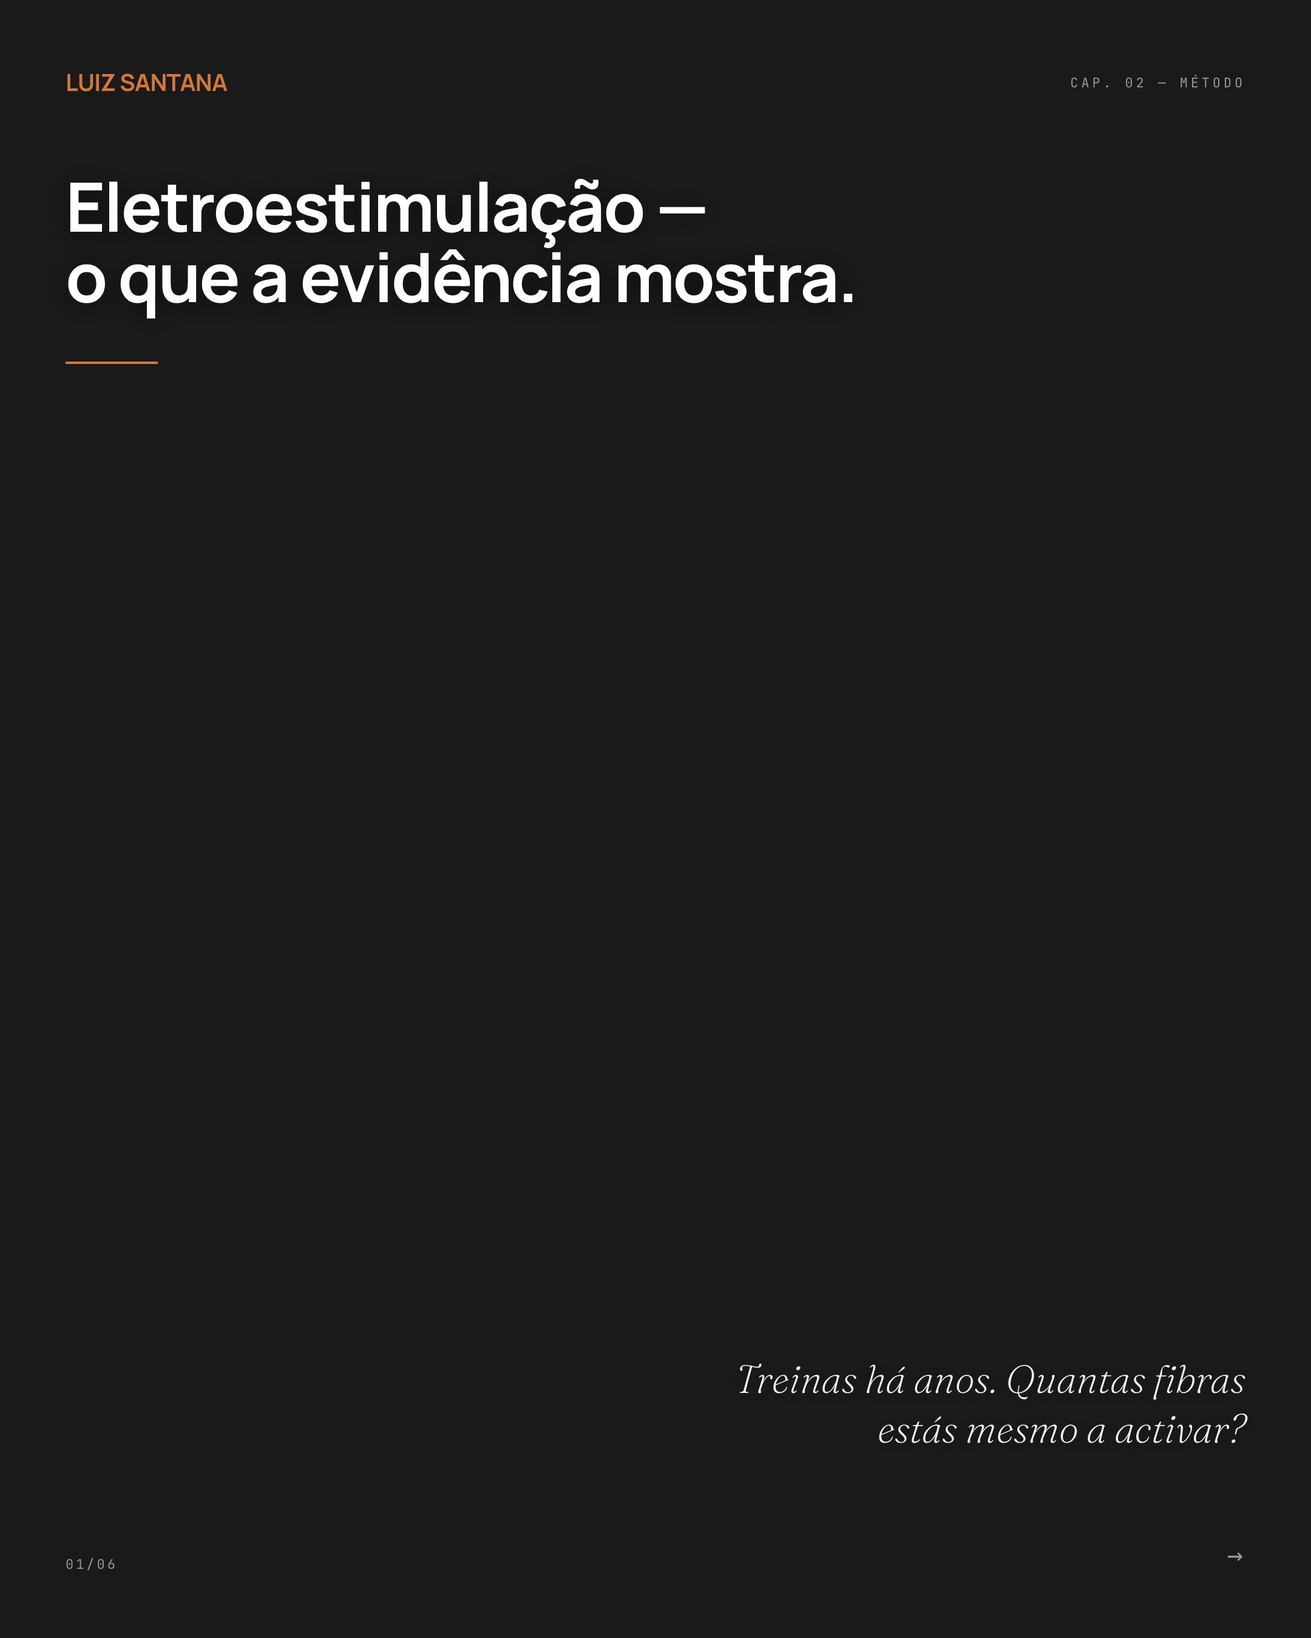
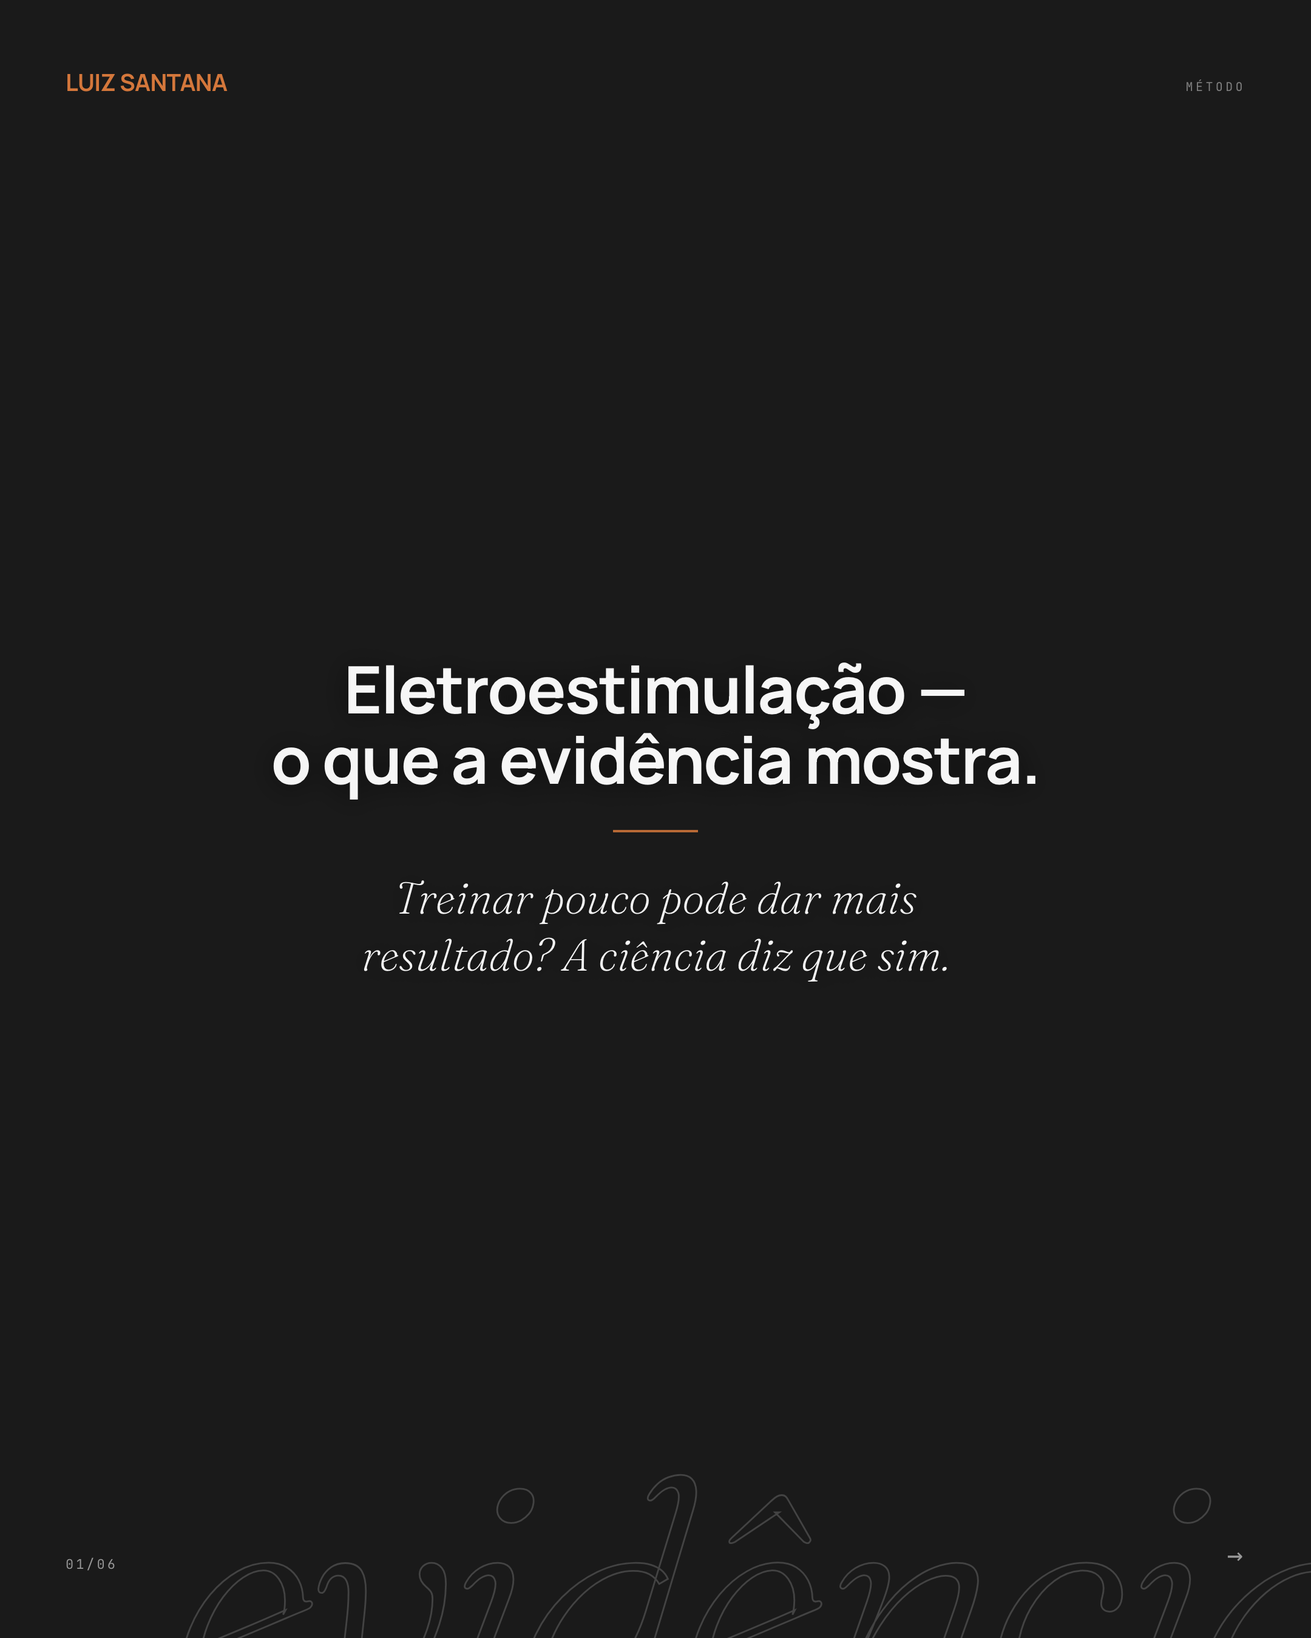
fix(luiz): repor slide-1 CENTRADO nos 4 carrosséis (correção de direção)
O rollback anterior (a6c94ac) foi para a capa alinhada à esquerda, mas o
cliente queria a versão de TEXTO CENTRADO. Reposta a versão centrada (estado
a6c94ac^) nos 4 slides 1. c02/c04 re-renderizados porque o PNG centrado em
git ainda mostrava "Electroestimulação" (a correção de grafia tinha ficado
só no HTML) — agora png+jpg mostram "Eletroestimulação". 0 EMS/Electro.
APP_VERSION 20260527-1245.

diff --git a/public/aprovacao-luiz-202605/brands/luiz_santana/output/2026-05/carrosseis/c04-b2b-ferramenta.html b/public/aprovacao-luiz-202605/brands/luiz_santana/output/2026-05/carrosseis/c04-b2b-ferramenta.html
@@ -142,16 +142,16 @@ h1, h2, h3, p, blockquote, .num {
   text-wrap: pretty;
 }
 
-/* slide-1 editorial cover v3 */
-#slide-1 { padding: clamp(36px, 5vw, 64px) !important; }
-#slide-1 .slide__top { gap: clamp(16px, 3vw, 32px); }
-#slide-1 .cap-index { font-family: var(--font-mono); font-size: 11px; letter-spacing: 0.22em; text-transform: uppercase; color: rgba(255,255,255,0.55); }
-#slide-1 .bg-number { position: absolute; bottom: -10%; right: -6%; font-family: var(--font-serif); font-style: italic; font-weight: 200; font-size: clamp(360px, 58vw, 760px); color: rgba(255,255,255,0.045); line-height: 0.85; letter-spacing: -0.06em; user-select: none; pointer-events: none; z-index: 0; }
-#slide-1.slide--photo .bg-number { display: none; }
-#slide-1 .slide__body { display: grid !important; grid-template-rows: auto auto 1fr auto !important; align-content: stretch !important; gap: clamp(20px, 3.2vh, 40px) !important; position: relative; z-index: 1; padding-top: clamp(20px, 5vh, 60px); padding-bottom: clamp(10px, 3vh, 30px); }
-#slide-1 .slide__body h1 { font-family: var(--font-display) !important; font-weight: 700 !important; font-size: clamp(32px, 5.2vw, 68px) !important; line-height: 1.04 !important; letter-spacing: -0.025em !important; max-width: 19ch !important; justify-self: start; text-wrap: balance; }
-#slide-1 .accent-rule { width: clamp(44px, 7vw, 96px); height: 2px; background: var(--accent); justify-self: start; align-self: start; }
-#slide-1 .slide__hook { font-family: var(--font-serif) !important; font-style: italic; font-weight: 200; font-size: clamp(22px, 3vw, 40px) !important; line-height: 1.25; color: rgba(255,255,255,0.88) !important; max-width: 22ch !important; justify-self: end !important; text-align: right; align-self: end; text-wrap: pretty; }
+/* slide-1 editorial cover v7 */
+#slide-1 { padding: clamp(36px, 5vw, 64px) !important; overflow: hidden; }
+#slide-1 .slide__top { gap: clamp(16px, 3vw, 32px); align-items: baseline; }
+#slide-1 .cap-index { font-family: var(--font-mono); font-size: 10px; letter-spacing: 0.22em; text-transform: uppercase; color: rgba(255,255,255,0.45); }
+#slide-1 .bg-word { position: absolute; bottom: -6vh; right: -3vw; font-family: var(--font-serif); font-style: italic; font-weight: 200; font-size: clamp(170px, 26vw, 320px); color: transparent; -webkit-text-stroke: 1.4px rgba(255,255,255,0.085); letter-spacing: -0.045em; line-height: 0.82; user-select: none; pointer-events: none; z-index: 0; white-space: nowrap; text-transform: lowercase; }
+#slide-1.slide--photo .bg-word { -webkit-text-stroke: 1.4px rgba(255,255,255,0.18); }
+#slide-1 .slide__body { display: grid !important; grid-template-rows: auto auto auto !important; align-content: center !important; justify-items: center !important; gap: clamp(18px, 2.8vh, 30px) !important; position: relative; z-index: 1; padding-top: 0 !important; padding-bottom: 0 !important; }
+#slide-1 .slide__body h1 { font-family: var(--font-display) !important; font-weight: 600 !important; font-size: clamp(32px, 5vw, 58px) !important; line-height: 1.08 !important; letter-spacing: -0.02em !important; max-width: 22ch !important; justify-self: center !important; text-align: center; text-wrap: balance; color: rgba(255,255,255,0.96); }
+#slide-1 .accent-rule { width: clamp(40px, 6.5vw, 80px); height: 2px; background: var(--accent); justify-self: center !important; opacity: 0.85; }
+#slide-1 .slide__hook { font-family: var(--font-serif) !important; font-style: italic; font-weight: 300; font-size: clamp(24px, 3.4vw, 38px) !important; line-height: 1.28; color: rgba(255,255,255,0.86) !important; max-width: 24ch !important; justify-self: center !important; text-align: center; text-wrap: pretty; }
 #slide-1.slide--photo .slide__hook { color: rgba(255,255,255,0.96) !important; text-shadow: 0 2px 18px rgba(0,0,0,0.45); }
 #slide-1.slide--photo .slide__body h1 { text-shadow: 0 2px 22px rgba(0,0,0,0.55); }
 /* coerência interiores */
@@ -165,12 +165,12 @@ h1, h2, h3, p, blockquote, .num {
 
 <article class="slide slide--type" id="slide-1">
   
-  <div class="bg-number" aria-hidden="true">04</div>
-  <div class="slide__top"><span class="brand-glyph">Luiz Santana</span><span class="cap-index">Cap. 04 — Negócio</span></div>
+  <div class="bg-word" aria-hidden="true">negócio</div>
+  <div class="slide__top"><span class="brand-glyph">Luiz Santana</span><span class="cap-index">Negócio</span></div>
   <div class="slide__body">
     <h1>Eletroestimulação não é&nbsp;só treino. É&nbsp;linha de&nbsp;negócio.</h1>
     <div class="accent-rule"></div>
-    <p class="slide__hook">Tens um espaço parado — ou&nbsp;uma linha de&nbsp;receita por abrir?</p>
+    <p class="slide__hook">Treinar menos, ganhar mais — e&nbsp;os teus clientes agradecem.</p>
   </div>
   <div class="slide__bottom"><span>01/06</span><span class="arrow">→</span></div>
 </article>

diff --git a/public/aprovacao-luiz-202605/brands/luiz_santana/output/2026-05/carrosseis/c02-metodo-ciencia.html b/public/aprovacao-luiz-202605/brands/luiz_santana/output/2026-05/carrosseis/c02-metodo-ciencia.html
@@ -142,16 +142,16 @@ h1, h2, h3, p, blockquote, .num {
   text-wrap: pretty;
 }
 
-/* slide-1 editorial cover v3 */
-#slide-1 { padding: clamp(36px, 5vw, 64px) !important; }
-#slide-1 .slide__top { gap: clamp(16px, 3vw, 32px); }
-#slide-1 .cap-index { font-family: var(--font-mono); font-size: 11px; letter-spacing: 0.22em; text-transform: uppercase; color: rgba(255,255,255,0.55); }
-#slide-1 .bg-number { position: absolute; bottom: -10%; right: -6%; font-family: var(--font-serif); font-style: italic; font-weight: 200; font-size: clamp(360px, 58vw, 760px); color: rgba(255,255,255,0.045); line-height: 0.85; letter-spacing: -0.06em; user-select: none; pointer-events: none; z-index: 0; }
-#slide-1.slide--photo .bg-number { display: none; }
-#slide-1 .slide__body { display: grid !important; grid-template-rows: auto auto 1fr auto !important; align-content: stretch !important; gap: clamp(20px, 3.2vh, 40px) !important; position: relative; z-index: 1; padding-top: clamp(20px, 5vh, 60px); padding-bottom: clamp(10px, 3vh, 30px); }
-#slide-1 .slide__body h1 { font-family: var(--font-display) !important; font-weight: 700 !important; font-size: clamp(32px, 5.2vw, 68px) !important; line-height: 1.04 !important; letter-spacing: -0.025em !important; max-width: 19ch !important; justify-self: start; text-wrap: balance; }
-#slide-1 .accent-rule { width: clamp(44px, 7vw, 96px); height: 2px; background: var(--accent); justify-self: start; align-self: start; }
-#slide-1 .slide__hook { font-family: var(--font-serif) !important; font-style: italic; font-weight: 200; font-size: clamp(22px, 3vw, 40px) !important; line-height: 1.25; color: rgba(255,255,255,0.88) !important; max-width: 22ch !important; justify-self: end !important; text-align: right; align-self: end; text-wrap: pretty; }
+/* slide-1 editorial cover v7 */
+#slide-1 { padding: clamp(36px, 5vw, 64px) !important; overflow: hidden; }
+#slide-1 .slide__top { gap: clamp(16px, 3vw, 32px); align-items: baseline; }
+#slide-1 .cap-index { font-family: var(--font-mono); font-size: 10px; letter-spacing: 0.22em; text-transform: uppercase; color: rgba(255,255,255,0.45); }
+#slide-1 .bg-word { position: absolute; bottom: -6vh; right: -3vw; font-family: var(--font-serif); font-style: italic; font-weight: 200; font-size: clamp(170px, 26vw, 320px); color: transparent; -webkit-text-stroke: 1.4px rgba(255,255,255,0.085); letter-spacing: -0.045em; line-height: 0.82; user-select: none; pointer-events: none; z-index: 0; white-space: nowrap; text-transform: lowercase; }
+#slide-1.slide--photo .bg-word { -webkit-text-stroke: 1.4px rgba(255,255,255,0.18); }
+#slide-1 .slide__body { display: grid !important; grid-template-rows: auto auto auto !important; align-content: center !important; justify-items: center !important; gap: clamp(18px, 2.8vh, 30px) !important; position: relative; z-index: 1; padding-top: 0 !important; padding-bottom: 0 !important; }
+#slide-1 .slide__body h1 { font-family: var(--font-display) !important; font-weight: 600 !important; font-size: clamp(32px, 5vw, 58px) !important; line-height: 1.08 !important; letter-spacing: -0.02em !important; max-width: 22ch !important; justify-self: center !important; text-align: center; text-wrap: balance; color: rgba(255,255,255,0.96); }
+#slide-1 .accent-rule { width: clamp(40px, 6.5vw, 80px); height: 2px; background: var(--accent); justify-self: center !important; opacity: 0.85; }
+#slide-1 .slide__hook { font-family: var(--font-serif) !important; font-style: italic; font-weight: 300; font-size: clamp(24px, 3.4vw, 38px) !important; line-height: 1.28; color: rgba(255,255,255,0.86) !important; max-width: 24ch !important; justify-self: center !important; text-align: center; text-wrap: pretty; }
 #slide-1.slide--photo .slide__hook { color: rgba(255,255,255,0.96) !important; text-shadow: 0 2px 18px rgba(0,0,0,0.45); }
 #slide-1.slide--photo .slide__body h1 { text-shadow: 0 2px 22px rgba(0,0,0,0.55); }
 /* coerência interiores */
@@ -165,12 +165,12 @@ h1, h2, h3, p, blockquote, .num {
 
 <article class="slide slide--photo" id="slide-1">
   
-  <div class="bg-number" aria-hidden="true">02</div>
-  <div class="slide__top"><span class="brand-glyph">Luiz Santana</span><span class="cap-index">Cap. 02 — Método</span></div>
+  <div class="bg-word" aria-hidden="true">evidência</div>
+  <div class="slide__top"><span class="brand-glyph">Luiz Santana</span><span class="cap-index">Método</span></div>
   <div class="slide__body">
     <h1>Eletroestimulação — o&nbsp;que a&nbsp;evidência mostra.</h1>
     <div class="accent-rule"></div>
-    <p class="slide__hook">Treinas há&nbsp;anos. Quantas fibras estás mesmo a&nbsp;activar?</p>
+    <p class="slide__hook">Treinar pouco pode dar mais resultado? A&nbsp;ciência diz que sim.</p>
   </div>
   <div class="slide__bottom"><span>01/06</span><span class="arrow">→</span></div>
 </article>

diff --git a/public/aprovacao-luiz-202605/brands/luiz_santana/output/2026-05/carrosseis/c03-origem-percurso.html b/public/aprovacao-luiz-202605/brands/luiz_santana/output/2026-05/carrosseis/c03-origem-percurso.html
@@ -142,16 +142,16 @@ h1, h2, h3, p, blockquote, .num {
   text-wrap: pretty;
 }
 
-/* slide-1 editorial cover v3 */
-#slide-1 { padding: clamp(36px, 5vw, 64px) !important; }
-#slide-1 .slide__top { gap: clamp(16px, 3vw, 32px); }
-#slide-1 .cap-index { font-family: var(--font-mono); font-size: 11px; letter-spacing: 0.22em; text-transform: uppercase; color: rgba(255,255,255,0.55); }
-#slide-1 .bg-number { position: absolute; bottom: -10%; right: -6%; font-family: var(--font-serif); font-style: italic; font-weight: 200; font-size: clamp(360px, 58vw, 760px); color: rgba(255,255,255,0.045); line-height: 0.85; letter-spacing: -0.06em; user-select: none; pointer-events: none; z-index: 0; }
-#slide-1.slide--photo .bg-number { display: none; }
-#slide-1 .slide__body { display: grid !important; grid-template-rows: auto auto 1fr auto !important; align-content: stretch !important; gap: clamp(20px, 3.2vh, 40px) !important; position: relative; z-index: 1; padding-top: clamp(20px, 5vh, 60px); padding-bottom: clamp(10px, 3vh, 30px); }
-#slide-1 .slide__body h1 { font-family: var(--font-display) !important; font-weight: 700 !important; font-size: clamp(32px, 5.2vw, 68px) !important; line-height: 1.04 !important; letter-spacing: -0.025em !important; max-width: 19ch !important; justify-self: start; text-wrap: balance; }
-#slide-1 .accent-rule { width: clamp(44px, 7vw, 96px); height: 2px; background: var(--accent); justify-self: start; align-self: start; }
-#slide-1 .slide__hook { font-family: var(--font-serif) !important; font-style: italic; font-weight: 200; font-size: clamp(22px, 3vw, 40px) !important; line-height: 1.25; color: rgba(255,255,255,0.88) !important; max-width: 22ch !important; justify-self: end !important; text-align: right; align-self: end; text-wrap: pretty; }
+/* slide-1 editorial cover v7 */
+#slide-1 { padding: clamp(36px, 5vw, 64px) !important; overflow: hidden; }
+#slide-1 .slide__top { gap: clamp(16px, 3vw, 32px); align-items: baseline; }
+#slide-1 .cap-index { font-family: var(--font-mono); font-size: 10px; letter-spacing: 0.22em; text-transform: uppercase; color: rgba(255,255,255,0.45); }
+#slide-1 .bg-word { position: absolute; bottom: -6vh; right: -3vw; font-family: var(--font-serif); font-style: italic; font-weight: 200; font-size: clamp(170px, 26vw, 320px); color: transparent; -webkit-text-stroke: 1.4px rgba(255,255,255,0.085); letter-spacing: -0.045em; line-height: 0.82; user-select: none; pointer-events: none; z-index: 0; white-space: nowrap; text-transform: lowercase; }
+#slide-1.slide--photo .bg-word { -webkit-text-stroke: 1.4px rgba(255,255,255,0.18); }
+#slide-1 .slide__body { display: grid !important; grid-template-rows: auto auto auto !important; align-content: center !important; justify-items: center !important; gap: clamp(18px, 2.8vh, 30px) !important; position: relative; z-index: 1; padding-top: 0 !important; padding-bottom: 0 !important; }
+#slide-1 .slide__body h1 { font-family: var(--font-display) !important; font-weight: 600 !important; font-size: clamp(32px, 5vw, 58px) !important; line-height: 1.08 !important; letter-spacing: -0.02em !important; max-width: 22ch !important; justify-self: center !important; text-align: center; text-wrap: balance; color: rgba(255,255,255,0.96); }
+#slide-1 .accent-rule { width: clamp(40px, 6.5vw, 80px); height: 2px; background: var(--accent); justify-self: center !important; opacity: 0.85; }
+#slide-1 .slide__hook { font-family: var(--font-serif) !important; font-style: italic; font-weight: 300; font-size: clamp(24px, 3.4vw, 38px) !important; line-height: 1.28; color: rgba(255,255,255,0.86) !important; max-width: 24ch !important; justify-self: center !important; text-align: center; text-wrap: pretty; }
 #slide-1.slide--photo .slide__hook { color: rgba(255,255,255,0.96) !important; text-shadow: 0 2px 18px rgba(0,0,0,0.45); }
 #slide-1.slide--photo .slide__body h1 { text-shadow: 0 2px 22px rgba(0,0,0,0.55); }
 /* coerência interiores */
@@ -165,8 +165,8 @@ h1, h2, h3, p, blockquote, .num {
 
 <article class="slide slide--type" id="slide-1">
   
-  <div class="bg-number" aria-hidden="true">03</div>
-  <div class="slide__top"><span class="brand-glyph">Luiz Santana</span><span class="cap-index">Cap. 03 — Percurso</span></div>
+  <div class="bg-word" aria-hidden="true">década</div>
+  <div class="slide__top"><span class="brand-glyph">Luiz Santana</span><span class="cap-index">Percurso</span></div>
   <div class="slide__body">
     <h1>Mais de&nbsp;uma década a&nbsp;construir o&nbsp;treino inteligente em&nbsp;Portugal.</h1>
     <div class="accent-rule"></div>

diff --git a/public/aprovacao-luiz-202605/brands/luiz_santana/output/2026-05/carrosseis/c01-barreiras.html b/public/aprovacao-luiz-202605/brands/luiz_santana/output/2026-05/carrosseis/c01-barreiras.html
@@ -142,16 +142,16 @@ h1, h2, h3, p, blockquote, .num {
   text-wrap: pretty;
 }
 
-/* slide-1 editorial cover v3 */
-#slide-1 { padding: clamp(36px, 5vw, 64px) !important; }
-#slide-1 .slide__top { gap: clamp(16px, 3vw, 32px); }
-#slide-1 .cap-index { font-family: var(--font-mono); font-size: 11px; letter-spacing: 0.22em; text-transform: uppercase; color: rgba(255,255,255,0.55); }
-#slide-1 .bg-number { position: absolute; bottom: -10%; right: -6%; font-family: var(--font-serif); font-style: italic; font-weight: 200; font-size: clamp(360px, 58vw, 760px); color: rgba(255,255,255,0.045); line-height: 0.85; letter-spacing: -0.06em; user-select: none; pointer-events: none; z-index: 0; }
-#slide-1.slide--photo .bg-number { display: none; }
-#slide-1 .slide__body { display: grid !important; grid-template-rows: auto auto 1fr auto !important; align-content: stretch !important; gap: clamp(20px, 3.2vh, 40px) !important; position: relative; z-index: 1; padding-top: clamp(20px, 5vh, 60px); padding-bottom: clamp(10px, 3vh, 30px); }
-#slide-1 .slide__body h1 { font-family: var(--font-display) !important; font-weight: 700 !important; font-size: clamp(32px, 5.2vw, 68px) !important; line-height: 1.04 !important; letter-spacing: -0.025em !important; max-width: 19ch !important; justify-self: start; text-wrap: balance; }
-#slide-1 .accent-rule { width: clamp(44px, 7vw, 96px); height: 2px; background: var(--accent); justify-self: start; align-self: start; }
-#slide-1 .slide__hook { font-family: var(--font-serif) !important; font-style: italic; font-weight: 200; font-size: clamp(22px, 3vw, 40px) !important; line-height: 1.25; color: rgba(255,255,255,0.88) !important; max-width: 22ch !important; justify-self: end !important; text-align: right; align-self: end; text-wrap: pretty; }
+/* slide-1 editorial cover v7 */
+#slide-1 { padding: clamp(36px, 5vw, 64px) !important; overflow: hidden; }
+#slide-1 .slide__top { gap: clamp(16px, 3vw, 32px); align-items: baseline; }
+#slide-1 .cap-index { font-family: var(--font-mono); font-size: 10px; letter-spacing: 0.22em; text-transform: uppercase; color: rgba(255,255,255,0.45); }
+#slide-1 .bg-word { position: absolute; bottom: -6vh; right: -3vw; font-family: var(--font-serif); font-style: italic; font-weight: 200; font-size: clamp(170px, 26vw, 320px); color: transparent; -webkit-text-stroke: 1.4px rgba(255,255,255,0.085); letter-spacing: -0.045em; line-height: 0.82; user-select: none; pointer-events: none; z-index: 0; white-space: nowrap; text-transform: lowercase; }
+#slide-1.slide--photo .bg-word { -webkit-text-stroke: 1.4px rgba(255,255,255,0.18); }
+#slide-1 .slide__body { display: grid !important; grid-template-rows: auto auto auto !important; align-content: center !important; justify-items: center !important; gap: clamp(18px, 2.8vh, 30px) !important; position: relative; z-index: 1; padding-top: 0 !important; padding-bottom: 0 !important; }
+#slide-1 .slide__body h1 { font-family: var(--font-display) !important; font-weight: 600 !important; font-size: clamp(32px, 5vw, 58px) !important; line-height: 1.08 !important; letter-spacing: -0.02em !important; max-width: 22ch !important; justify-self: center !important; text-align: center; text-wrap: balance; color: rgba(255,255,255,0.96); }
+#slide-1 .accent-rule { width: clamp(40px, 6.5vw, 80px); height: 2px; background: var(--accent); justify-self: center !important; opacity: 0.85; }
+#slide-1 .slide__hook { font-family: var(--font-serif) !important; font-style: italic; font-weight: 300; font-size: clamp(24px, 3.4vw, 38px) !important; line-height: 1.28; color: rgba(255,255,255,0.86) !important; max-width: 24ch !important; justify-self: center !important; text-align: center; text-wrap: pretty; }
 #slide-1.slide--photo .slide__hook { color: rgba(255,255,255,0.96) !important; text-shadow: 0 2px 18px rgba(0,0,0,0.45); }
 #slide-1.slide--photo .slide__body h1 { text-shadow: 0 2px 22px rgba(0,0,0,0.55); }
 /* coerência interiores */
@@ -165,8 +165,8 @@ h1, h2, h3, p, blockquote, .num {
 
 <article class="slide slide--type" id="slide-1">
   
-  <div class="bg-number" aria-hidden="true">01</div>
-  <div class="slide__top"><span class="brand-glyph">Luiz Santana</span><span class="cap-index">Cap. 01 — Barreiras</span></div>
+  <div class="bg-word" aria-hidden="true">método</div>
+  <div class="slide__top"><span class="brand-glyph">Luiz Santana</span><span class="cap-index">Barreiras</span></div>
   <div class="slide__body">
     <h1>Não treinar não é&nbsp;fraqueza. É&nbsp;problema de&nbsp;método.</h1>
     <div class="accent-rule"></div>

diff --git a/public/aprovacao-luiz-202605/js/config.js b/public/aprovacao-luiz-202605/js/config.js
@@ -33,4 +33,4 @@ export const AUTH_ENABLED = false;
 // Versão do app. Comparada periodicamente contra /version.txt no servidor.
 // Se divergir, o badge muda para "🔄 Nova versão" e o user sabe que está
 // numa sessão desactualizada. Bump em cada deploy importante.
-export const APP_VERSION = "20260527-1230";
+export const APP_VERSION = "20260527-1245";

diff --git a/public/aprovacao-luiz-202605/index.html b/public/aprovacao-luiz-202605/index.html
@@ -3,7 +3,7 @@
 <head>
 <meta charset="utf-8" />
 <meta name="viewport" content="width=device-width,initial-scale=1" />
-<meta name="app-version" content="20260527-1230" />
+<meta name="app-version" content="20260527-1245" />
 <title>Aprovação · Conteúdo</title>
 
 <script>
